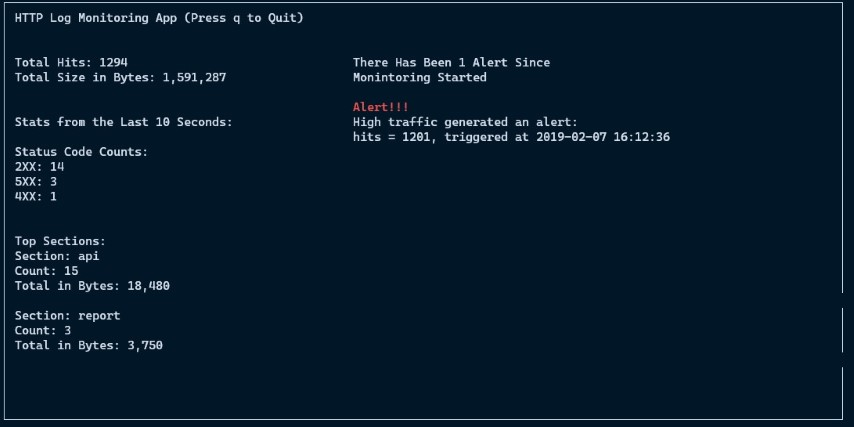
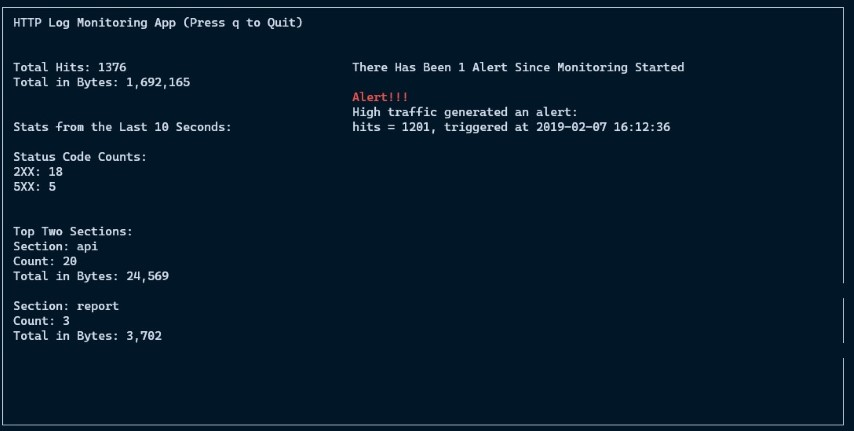
Some additional cleanup and filling out readme

diff --git a/http_monitor/display.py b/http_monitor/display.py
@@ -36,7 +36,6 @@ class Display(threading.Thread):
         self.stdscr.nodelay(1)
 
         max_height, max_width = self.stdscr.getmaxyx()
-        alert_count = 0
         curses.start_color()
         curses.init_pair(1, curses.COLOR_RED, curses.COLOR_BLACK)
         curses.init_pair(2, curses.COLOR_GREEN, curses.COLOR_BLACK)
@@ -44,52 +43,15 @@ class Display(threading.Thread):
         while not self.thread_terminated:
             self.stdscr.erase()
 
-            self.stdscr.addstr(1, 2, "HTTP Log Monitoring App (Press q to Quit)")
+            self.stdscr.addstr(
+                1, 2, "HTTP Log Monitoring App (Press q to Quit)"
+            )
+
             window_border = self.stdscr.subwin(max_height-1, max_width, 0, 0)
             window_border.border()
 
-            stats_data = self.stats.updated_stats_data()
-
-            self.stdscr.addstr(4, 2, f'Total Hits: {stats_data["hits"]}')
-            self.stdscr.addstr(5, 2, f'Total in Bytes: {stats_data["size"]:,}')
-
-            self.stdscr.addstr(8, 2, "Stats from the Last 10 Seconds:")
-
-            section_size = stats_data.get("section_size")
-            section_counts = stats_data.get("section_counts")
-            status_counts = stats_data.get("status_counts")
-
-            y = 9
-            if status_counts:
-                y += 1
-                self.stdscr.addstr(y, 2, "Status Code Counts:")
-                for line in self.__build_status_lines(status_counts):
-                    y += 1
-                    self.stdscr.addstr(y, 2, line)
-
-                y += 3
-                self.stdscr.addstr(y, 2, "Top Two Sections:")
-                for line in self.__build_top_n_sections(section_size, section_counts):
-                    y += 1
-                    self.stdscr.addstr(y, 2, line)
-
-            alert_data = self.alerts.updated_alert_data()
-            alert_count = alert_data['alert_count']
-
-            alert_text = "Alert" if alert_count == 1 else "Alerts"
-
-            alert_heading_line1 = f'There Has Been {alert_count} {alert_text} Since'
-            alert_heading_line2 = f'Monintoring Started'
-            self.stdscr.addstr(4, 50, alert_heading_line1)
-            self.stdscr.addstr(5, 50, alert_heading_line2)
-
-            if 'type' in alert_data:
-                if alert_data['type'] == 'alert':
-                    self.stdscr.addstr(7, 50, "Alert!!!", curses.color_pair(1))
-                else:
-                    self.stdscr.addstr(7, 50, "Recovered", curses.color_pair(2))
-                self.stdscr.addstr(8, 50, alert_data['msg_line1'])
-                self.stdscr.addstr(9, 50, alert_data['msg_line2'])
+            self.__display_stats_data()
+            self.__display_alerts_data()
 
             self.stdscr.refresh()
 
@@ -99,6 +61,61 @@ class Display(threading.Thread):
                 self.stats.thread_terminated = True
                 self.alerts.thread_terminated = True
                 self.thread_terminated = True
+
+    def __display_stats_data(self):
+        """
+        Displays the stats data from the stats consumer
+        """
+        stats_data = self.stats.updated_stats_data()
+
+        self.stdscr.addstr(4, 2, f'Total Hits: {stats_data["hits"]}')
+        self.stdscr.addstr(5, 2, f'Total in Bytes: {stats_data["size"]:,}')
+
+        self.stdscr.addstr(8, 2, "Stats from the Last 10 Seconds:")
+
+        section_size = stats_data.get("section_size")
+        section_counts = stats_data.get("section_counts")
+        status_counts = stats_data.get("status_counts")
+
+        y = 9
+        if status_counts:
+            y += 1
+            self.stdscr.addstr(y, 2, "Status Code Counts:")
+            for line in self.__build_status_lines(status_counts):
+                y += 1
+                self.stdscr.addstr(y, 2, line)
+
+            y += 3
+            self.stdscr.addstr(y, 2, "Top Two Sections:")
+            for line in self.__build_top_n_sections(
+                        section_size, section_counts
+                    ):
+                y += 1
+                self.stdscr.addstr(y, 2, line)
+
+    def __display_alerts_data(self):
+        """
+        Displays the alerts data from the alerts consumer
+        """
+        alert_data = self.alerts.updated_alert_data()
+        alert_count = alert_data['alert_count']
+
+        alert_text = "Alert" if alert_count == 1 else "Alerts"
+
+        alert_heading = (
+            f'There Has Been {alert_count} {alert_text} Since '
+            f'Monitoring Started'
+        )
+
+        self.stdscr.addstr(4, 50, alert_heading)
+
+        if 'type' in alert_data:
+            if alert_data['type'] == 'alert':
+                self.stdscr.addstr(6, 50, "Alert!!!", curses.color_pair(1))
+            else:
+                self.stdscr.addstr(6, 50, "Recovered", curses.color_pair(2))
+            self.stdscr.addstr(7, 50, alert_data['msg_line1'])
+            self.stdscr.addstr(8, 50, alert_data['msg_line2'])
 
     def __build_status_lines(self, counts):
         """

diff --git a/http_monitor/log_alert_consumer.py b/http_monitor/log_alert_consumer.py
@@ -47,10 +47,18 @@ class LogAlertConsumer(threading.Thread):
                 timestamp = self.timestamps_queue.popleft()
                 self.alert_queue.append(timestamp)
 
-                # A second block may be missing entirely so can't
-                # be exact
                 if (time() - start_real_time) >= self.time_window:
                     self.__should_alert_or_recover(timestamp)
+
+    def updated_alert_data(self):
+        """
+        Returns most up to date alert data for displaying
+            purposes
+
+        Returns:
+            dict: Dict of data that will be used for displaying
+        """
+        return self.alert_data
 
     def __remove_out_of_window_timestamps(self, timestamp):
         """
@@ -61,9 +69,9 @@ class LogAlertConsumer(threading.Thread):
                 (timestamp - self.time_window) > self.alert_queue[0]:
             self.alert_queue.popleft()
 
-    def __has_breached_traffic(self, timestamp):
+    def __has_breached_threshold(self, timestamp):
         """
-        Approximate average of number of hits / second by taking the total
+        Approximate average of number of hits / second by taking the
         size of the local queue and divided it by the time window size
         """
         self.__remove_out_of_window_timestamps(timestamp)
@@ -73,7 +81,7 @@ class LogAlertConsumer(threading.Thread):
         """
         Checks to see which state the alert service is currently in
         """
-        current_state = self.__has_breached_traffic(timestamp)
+        current_state = self.__has_breached_threshold(timestamp)
         if not self.alerted and current_state:
             self.alerted = True
             self.__alert_message(timestamp)
@@ -89,7 +97,9 @@ class LogAlertConsumer(threading.Thread):
         date = datetime.fromtimestamp(timestamp).strftime('%Y-%m-%d %H:%M:%S')
         self.alert_data['type'] = 'alert'
         self.alert_data['msg_line1'] = f'High traffic generated an alert:'
-        self.alert_data['msg_line2'] = f'hits = {len(self.alert_queue)}, triggered at {date}'
+        self.alert_data['msg_line2'] = (
+            f'hits = {len(self.alert_queue)}, triggered at {date}'
+        )
 
     def __recovered_message(self, timestamp):
         """
@@ -97,15 +107,7 @@ class LogAlertConsumer(threading.Thread):
         """
         date = datetime.fromtimestamp(timestamp).strftime('%Y-%m-%d %H:%M:%S')
         self.alert_data['type'] = 'recovered'
-        self.alert_data['msg_line1'] = f'Traffic normalized - hits = {len(self.alert_queue)}'
+        self.alert_data['msg_line1'] = (
+            f'Traffic normalized - hits = {len(self.alert_queue)}'
+        )
         self.alert_data['msg_line2'] = f'recovered at {date}'
-
-    def updated_alert_data(self):
-        """
-        Returns most up to date alert data for displaying
-            purposes
-
-        Returns:
-            dict: Dict of data that will be used for displaying
-        """
-        return self.alert_data

diff --git a/http_monitor/log_stats_consumer.py b/http_monitor/log_stats_consumer.py
@@ -52,6 +52,16 @@ class LogStatsConsumer(threading.Thread):
                     section_counts, status_counts = Counter(), Counter()
                     section_size = defaultdict(int)
 
+    def updated_stats_data(self):
+        """
+        Returns most up to date stats data for displaying
+            purposes
+
+        Returns:
+            dict: Dict of data that will be used for displaying
+        """
+        return self.stats_data
+
     def __update_counts(self, section_size, section_counts, status_counts):
         """
         Gets log data from the local queue to update counts and size
@@ -79,13 +89,3 @@ class LogStatsConsumer(threading.Thread):
         self.stats_data["section_size"] = dict(section_size)
         self.stats_data["section_counts"] = Counter(section_counts)
         self.stats_data["status_counts"] = Counter(status_counts)
-
-    def updated_stats_data(self):
-        """
-        Returns most up to date stats data for displaying
-            purposes
-
-        Returns:
-            dict: Dict of data that will be used for displaying
-        """
-        return self.stats_data

diff --git a/README.md b/README.md
@@ -26,7 +26,7 @@ This HTTP Log Monitoring App can be used to tail a log file, which will alert if
 
 ### Alerting System
 
-The main algorithm used is based on a sliding window technique. Timestamps are moved from the main queue to a local queue that will be filled within the time window set. This local queue is then used to get an approximate average hits / second for the time window by taking the length of this local queue and dividing it by the time window (eg. `len(local_queue) / 120`). Before this is computed, any early timestamps that are now outside of the window are popped off the queue.
+The main algorithm (check `has_breached_threshold` method in class `LogAlertConsumer`) used is based on a sliding window technique. Timestamps are moved from the main queue to a local queue that will be filled within the time window set. This local queue is then used to get an approximate average hits / second for the time window by taking the length of this local queue and dividing it by the time window (eg. `len(local_queue) / 120`). Before this is computed, any early timestamps that are now outside of the window are popped off the queue.
 
 Several options were also explored for the alerting system. Since the log line timestamps can be slightly out of order...
 
@@ -67,7 +67,7 @@ In order for local development, a program was created to simulate logging to a f
 
 ## Potential Improvements
 
-1. The `curses` implementation is a bit rough as it is my first time using the package and also first time writing an app that displays to a CLI. Better formatting, properly handling window resizing and handling top N with proper spacing would make the display better.
+1. The `curses` implementation is a bit rough as it is my first time using the package and also first time writing an app that displays to a CLI. Better formatting, properly handling window resizing and handling top N with proper spacing would make the display better. For now, top N sections is locked to two sections because of spacing concerns.
 2. The simulator that can be used to simulate logging is a simple app that writes to a file line by line with a random sleep time in between each line. There may be better ways to simulate logging but for now the log lines are written to an monitered file slower than it would be in production environment.
 
 ## Sources Used
